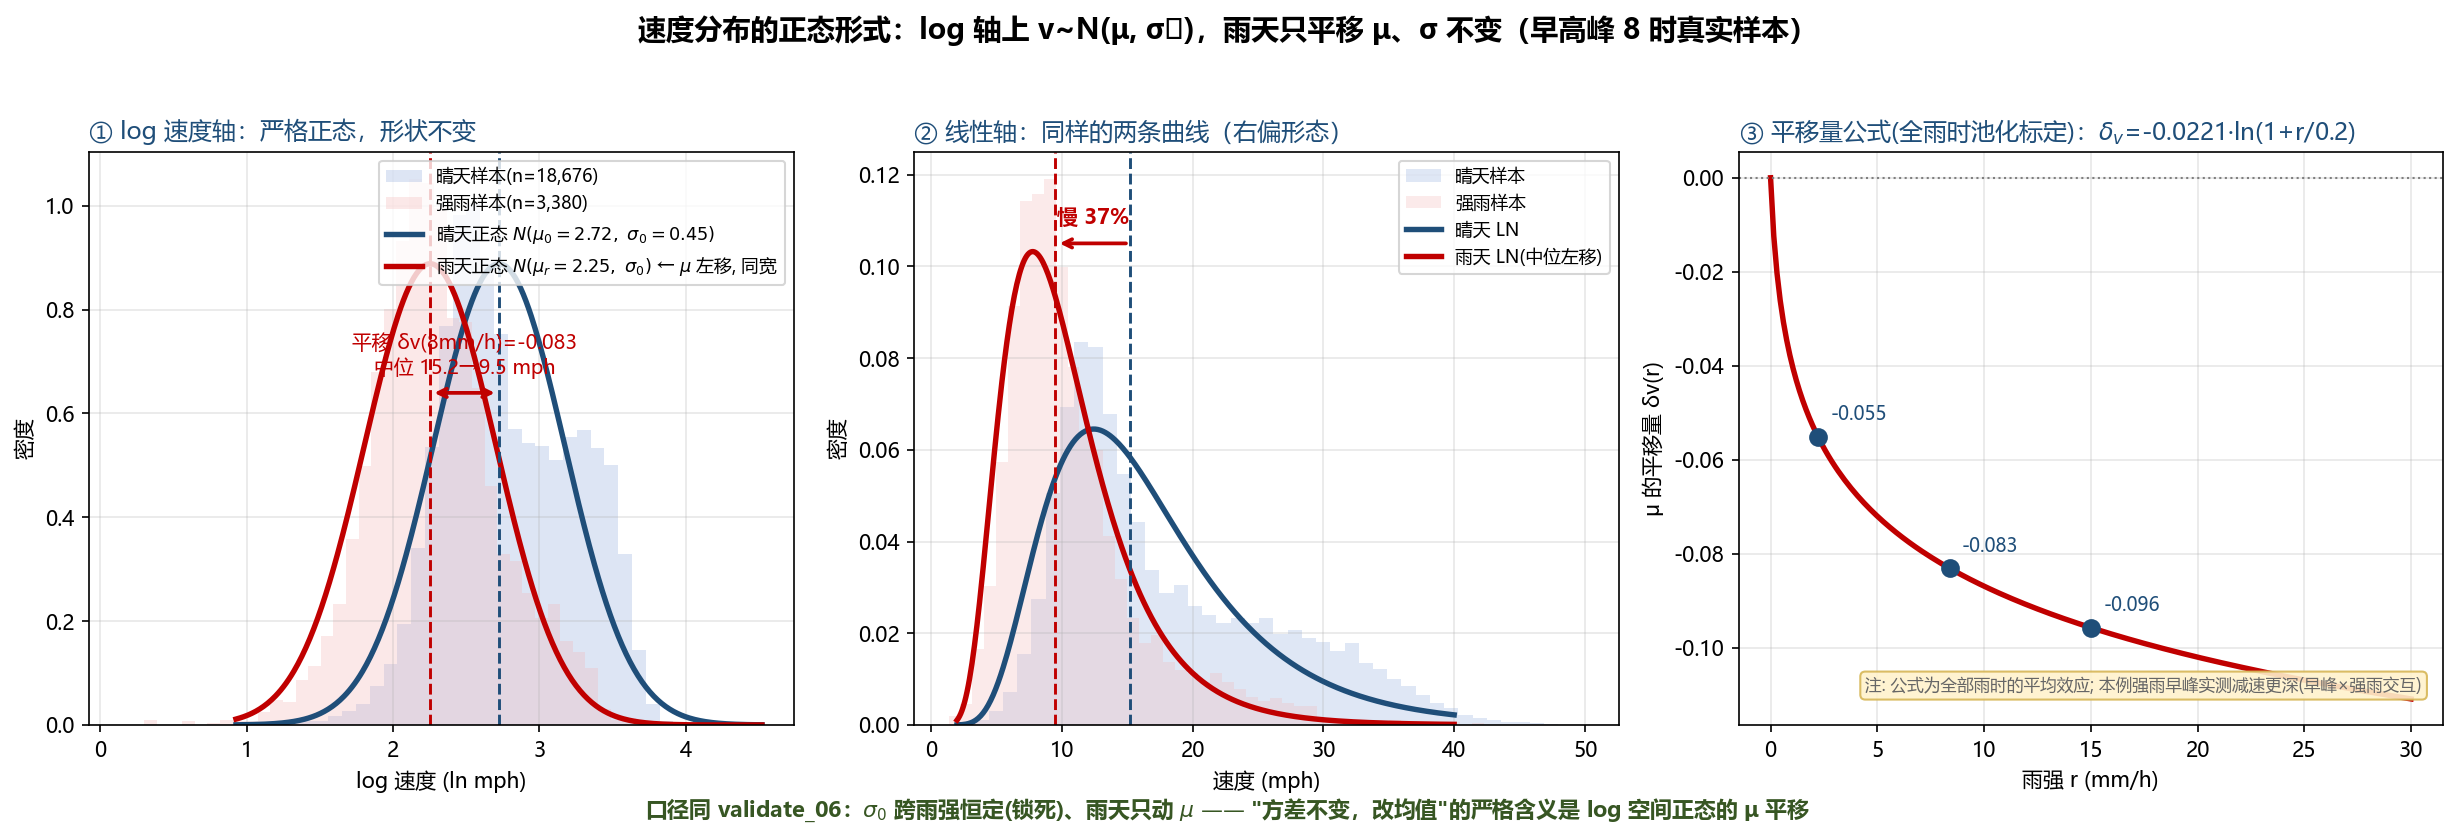
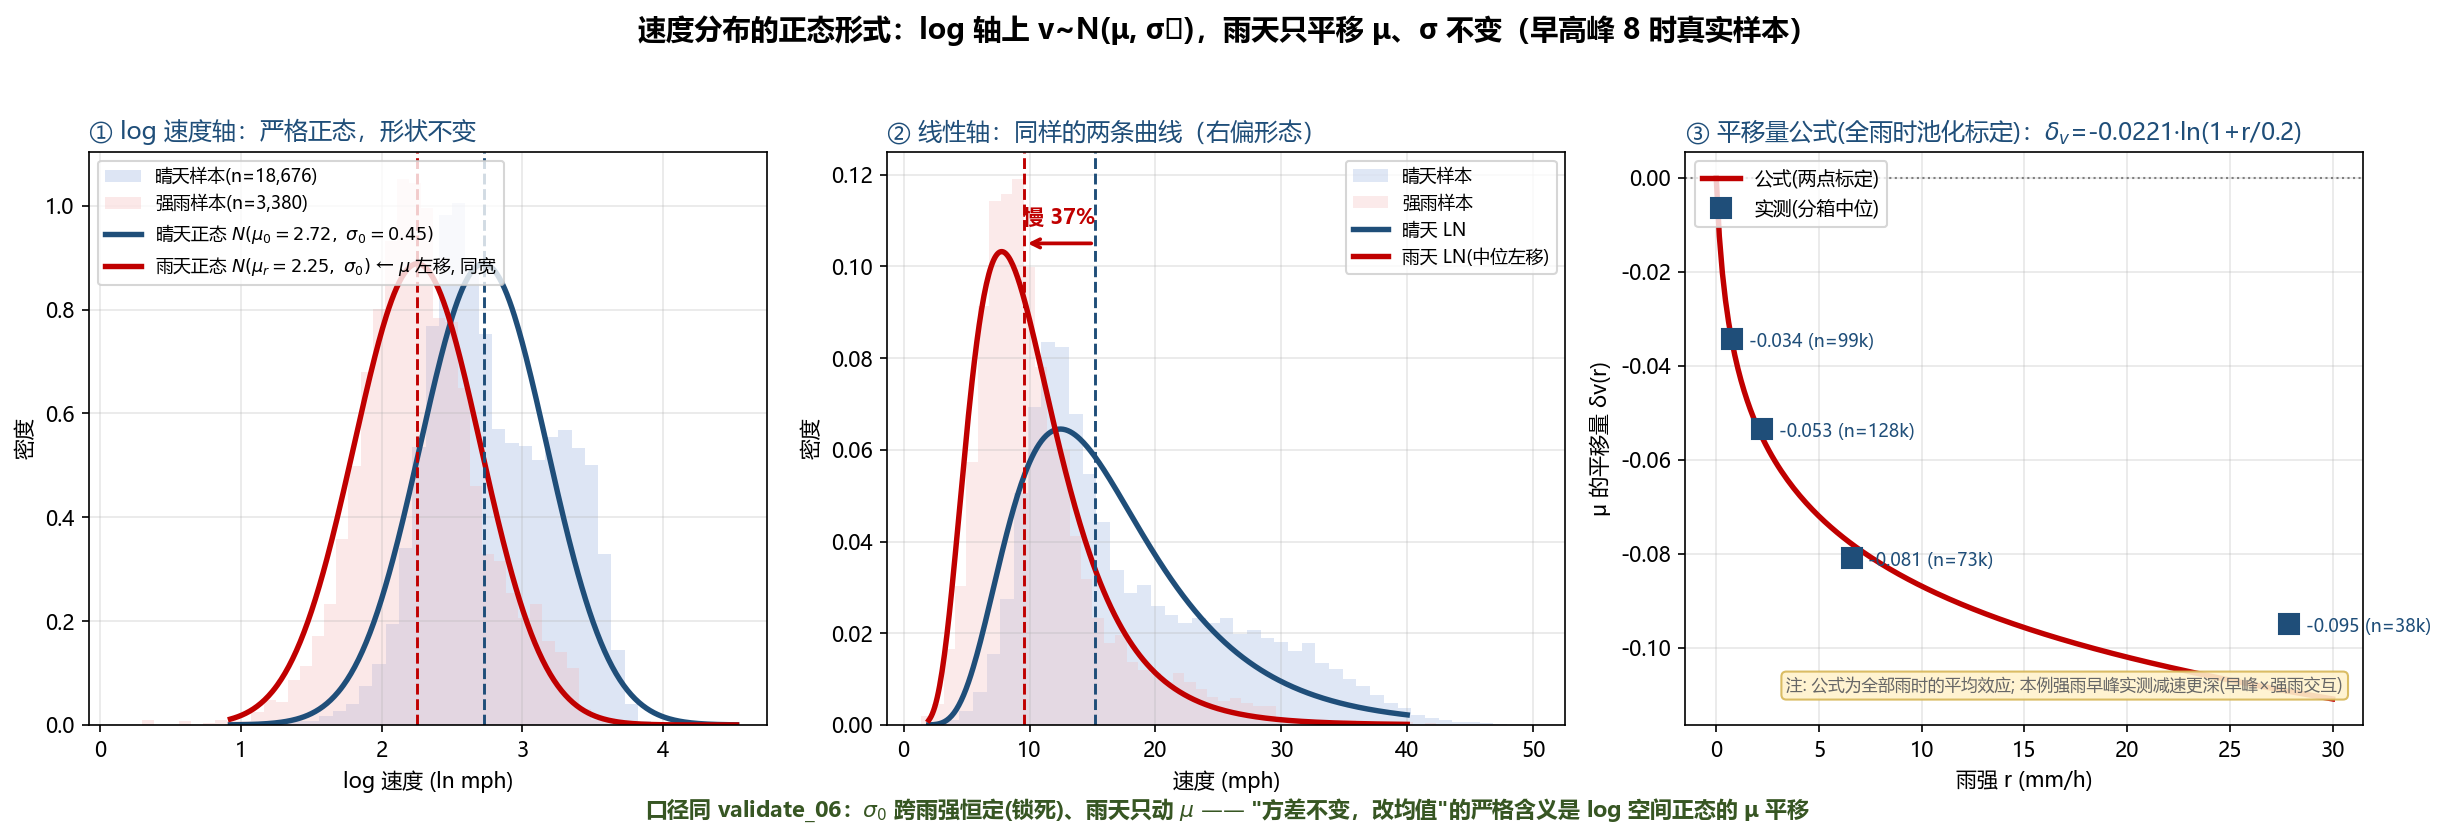
速度正态图改进：子图1去重叠标注/图例左上，子图3加4个分箱实测点(交叉验证与06标定一致)

diff --git a/validate_34_speed_normal.py b/validate_34_speed_normal.py
@@ -68,14 +68,9 @@ ax.hist(np.log(v_rain), bins=40, density=True, alpha=0.30, color='#F4B6B6', labe
 ax.plot(gx, stats.norm.pdf(gx, mu0, sig0), lw=2.6, color=NAVY, label=f'晴天正态 $N(\mu_0={mu0:.2f},\ \sigma_0={sig0:.2f})$')
 ax.plot(gx, stats.norm.pdf(gx, mu_r, sig0), lw=2.6, color=RED, label=f'雨天正态 $N(\mu_r={mu_r:.2f},\ \sigma_0)$ ← $\mu$ 左移, 同宽')
 ax.axvline(mu0, color=NAVY, ls='--', lw=1.4); ax.axvline(mu_r, color=RED, ls='--', lw=1.4)
-ax.annotate('', xy=(mu_r, stats.norm.pdf(mu0, mu0, sig0) * 0.72), xytext=(mu0, stats.norm.pdf(mu0, mu0, sig0) * 0.72),
-            arrowprops=dict(arrowstyle='<->', color=RED, lw=1.8))
-ax.text((mu0 + mu_r) / 2, stats.norm.pdf(mu0, mu0, sig0) * 0.76,
-        f'平移 δv({r_med:.0f}mm/h)={dv(r_med):.3f}\n中位 {np.exp(mu0):.1f}→{np.exp(mu_r):.1f} mph',
-        ha='center', fontsize=9.5, color=RED)
 ax.set_xlabel('log 速度 (ln mph)'); ax.set_ylabel('密度')
 ax.set_title('① log 速度轴：严格正态，形状不变', fontsize=11.5, loc='left', color=NAVY)
-ax.legend(fontsize=8.5, loc='upper right'); ax.grid(alpha=0.3)
+ax.legend(fontsize=8.5, loc='upper left'); ax.grid(alpha=0.3)
 
 # ---- ② 线性速度轴: 右偏形态 ----
 ax = axes[1]
@@ -95,16 +90,39 @@ ax.legend(fontsize=8.5, loc='upper right'); ax.grid(alpha=0.3)
 
 # ---- ③ δv(r) 剂量曲线 ----
 ax = axes[2]
+# 真实数据点: 分雨强箱的实测平移量(箱内逐条 log 速度残差的中位, validate_06 同口径)
+rainy = np.where(kl != 'dry')[0]
+boxes = [(0.3, 1.0, '0.3-1'), (1.0, 4.0, '1-4'), (4.0, 12.0, '4-12'), (12.0, 1e9, '≥12')]
+# 基线: 同星期同钟点干日中位 log 速度
+dow_map = np.array([int(np.datetime64(d, 'D').view('int64')) % 7 for d in dates])
+mu0_how = np.zeros((7, 24))
+for k7 in range(7):
+    sel = np.where((kl == 'dry') & (dow_map == k7))[0]
+    for h in range(24):
+        mm = np.isin(spdD, sel) & (spdH == h) & (spdV > 1) & (spdV < 60)
+        mu0_how[k7, h] = np.median(np.log(spdV[mm])) if mm.sum() > 50 else np.nan
+pt_r, pt_dv, pt_n = [], [], []
+for lo, hi, nm in boxes:
+    bm = np.zeros((n, 24), bool)
+    bm[rainy] = (inten[rainy] >= lo) & (inten[rainy] < hi)
+    msk = bm[spdD, spdH] & (spdV > 1) & (spdV < 60)
+    base_h = mu0_how[dow_map[spdD], spdH]
+    ok = msk & ~np.isnan(base_h)
+    if ok.sum() > 200:
+        res = np.log(spdV[ok]) - base_h[ok]
+        pt_r.append(float(inten[bm].mean())); pt_dv.append(float(np.median(res))); pt_n.append(int(ok.sum()))
+        print(f'实测箱 {nm}mm/h: r̄={pt_r[-1]:.2f} δv={pt_dv[-1]:+.4f} n={pt_n[-1]:,}')
 rr = np.linspace(0, 30, 200)
-ax.plot(rr, dv(rr), lw=2.6, color=RED)
-for r_pt in [2.22, r_med, 15]:
-    ax.plot([r_pt], [dv(r_pt)], 'o', ms=8, color=NAVY, zorder=5)
-    ax.annotate(f'{dv(r_pt):+.3f}', (r_pt, dv(r_pt)), textcoords='offset points',
-                xytext=(6, 8), fontsize=9, color=NAVY)
+ax.plot(rr, dv(rr), lw=2.6, color=RED, label='公式(两点标定)')
+ax.plot(pt_r, pt_dv, 's', ms=10, color=NAVY, zorder=5, label='实测(分箱中位)')
+for x_, y_, nn in zip(pt_r, pt_dv, pt_n):
+    ax.annotate(f'{y_:+.3f} (n={nn//1000}k)', (x_, y_), textcoords='offset points',
+                xytext=(8, -4), fontsize=8.5, color=NAVY)
 ax.axhline(0, color=GREY, ls=':', lw=1)
 ax.set_xlabel('雨强 r (mm/h)'); ax.set_ylabel('μ 的平移量 δv(r)')
 ax.set_title('③ 平移量公式(全雨时池化标定)：$\delta_v$=-0.0221·ln(1+r/0.2)', fontsize=11.5, loc='left', color=NAVY)
 ax.text(0.97, 0.06, '注: 公式为全部雨时的平均效应; 本例强雨早峰实测减速更深(早峰×强雨交互)', transform=ax.transAxes, fontsize=8, color=MUTED, ha='right', bbox=dict(boxstyle='round,pad=0.3', fc='#FFF2CC', ec='#D6B656', alpha=0.9))
+ax.legend(fontsize=9, loc='upper left')
 ax.grid(alpha=0.3)
 
 fig.text(0.5, 0.002,
